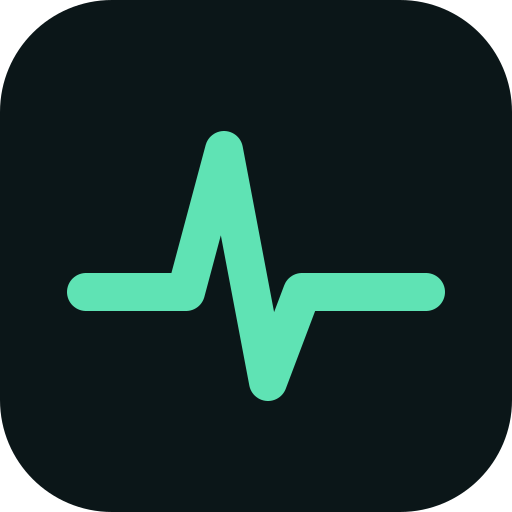
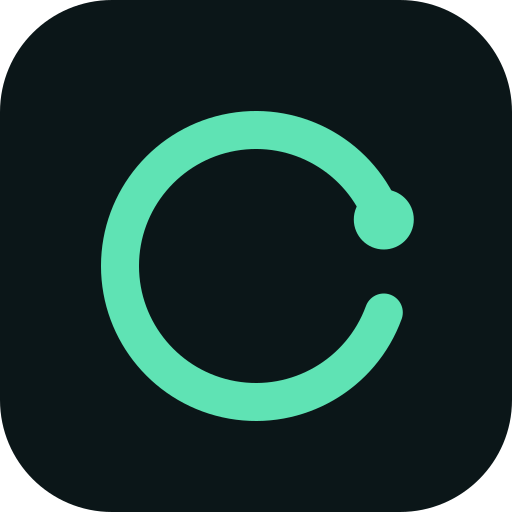
Replace the EKG mark with a cycle-and-marker glyph
The pulse-line icon didn't fit an app named Refrain anymore. New mark is an
open ring with a single dot riding it — the app's own vocabulary for what it
does: a cycle that turns over, with one phrase currently dealt off it. Same
palette and stroke weight as before, applied to icon.svg, the four PNG
exports, and the inline header mark in index.html (heavier stroke there,
matching the old convention).

Bumped the sw.js cache key again since icon-192.png and icon-512.png are
shell files.

Claude-Session: https://claude.ai/code/session_01Movs3tDifsZaLKbkdpRGcE

Changed region(s): [[0.125, 0.2188, 0.875, 0.8438]]

diff --git a/index.html b/index.html
@@ -24,8 +24,9 @@
 
   <header class="masthead">
     <svg class="mark" viewBox="0 0 512 512" aria-hidden="true">
-      <path d="M86 292 H186 L224 150 L268 382 L302 292 H426" fill="none"
+      <path d="M383.8 219.5 A136 136 0 1 0 383.8 312.5" fill="none"
             stroke="currentColor" stroke-width="46" stroke-linecap="round" stroke-linejoin="round"/>
+      <circle cx="383.8" cy="219.5" r="36" fill="currentColor"/>
     </svg>
     <h1>Refrain</h1>
     <p class="status" id="status" data-state="off"><span class="status__pip"></span><span id="status-text">Off</span></p>

diff --git a/sw.js b/sw.js
@@ -11,7 +11,7 @@
  */
 importScripts("lib/idb.js", "lib/bag.js", "lib/pulse.js");
 
-const CACHE = "refrain-shell-v14";
+const CACHE = "refrain-shell-v15";
 const SHELL = [
   "./",
   "index.html",

diff --git a/CLAUDE.md b/CLAUDE.md
@@ -43,7 +43,7 @@ The payoff is that a pulse delivered while the app is closed is drawn by exactly
 
 ## Conventions that bite
 
-- **Bump `CACHE` in `sw.js`** (currently `refrain-shell-v14`) whenever a shell file changes, and add any new file to the `SHELL` array — otherwise returning visitors keep the old copy. The page reloads itself once on `controllerchange` so an update lands on the visit that fetched it.
+- **Bump `CACHE` in `sw.js`** (currently `refrain-shell-v15`) whenever a shell file changes, and add any new file to the `SHELL` array — otherwise returning visitors keep the old copy. The page reloads itself once on `controllerchange` so an update lands on the visit that fetched it.
 - **Every path is relative** (`./`, `lib/...`, `icons/...`) so the app works served from a subdirectory. Do not introduce root-absolute paths.
 - **The CSP in `index.html` is `'self'`-only** — no CDN, no external fonts, no analytics, no inline `<script>`. Inline styles are allowed. New code must be a same-origin file.
 - **`test/schedule.test.js` is where the decision path is covered.** It stands a fake in-memory `MPStore` in front of `fire`/`tick`, so anything touching storage can be tested without IndexedDB. Put new scheduling behaviour there rather than leaving it to manual checking — that gap is how two shipped defects got through.
